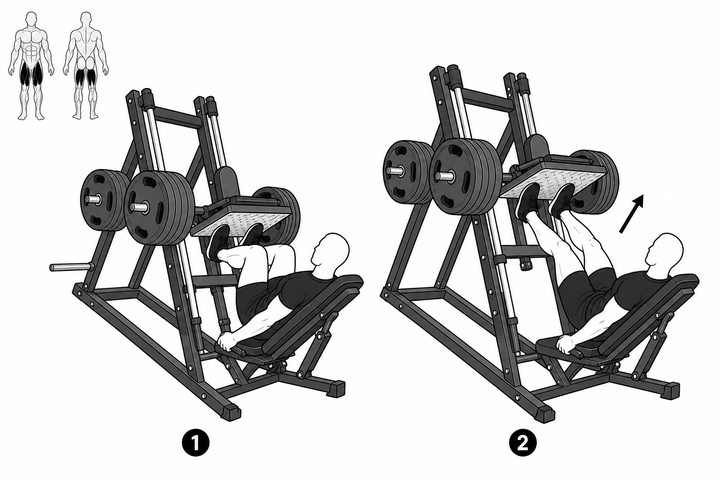
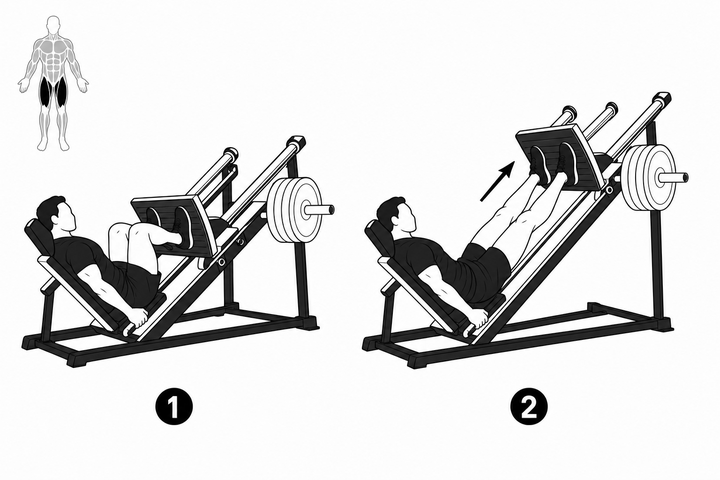
Presse à cuisses : dessin de profil plus net

diff --git a/src/data/exercices.ts b/src/data/exercices.ts
@@ -2017,7 +2017,7 @@ const IMAGES_INTEGREES: Record<string, string> | undefined = (
 /** Version des vignettes : à changer quand des images sont redécoupées. Le
  *  site les fait garder une semaine en cache ; sans elle, les téléphones
  *  montreraient encore les anciennes. */
-const VERSION_IMAGES = 7;
+const VERSION_IMAGES = 8;
 
 /** Chemin public d'une vignette d'exercice (respecte la base Vite). */
 export const cheminImage = (exerciceId: string): string =>
